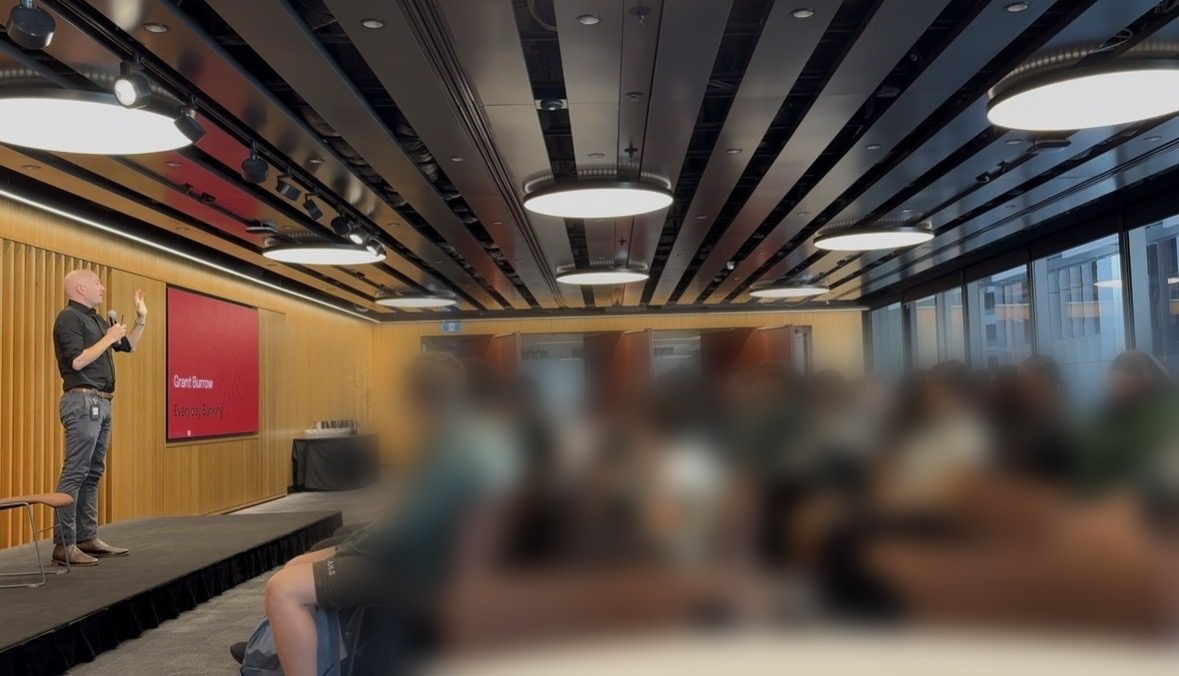
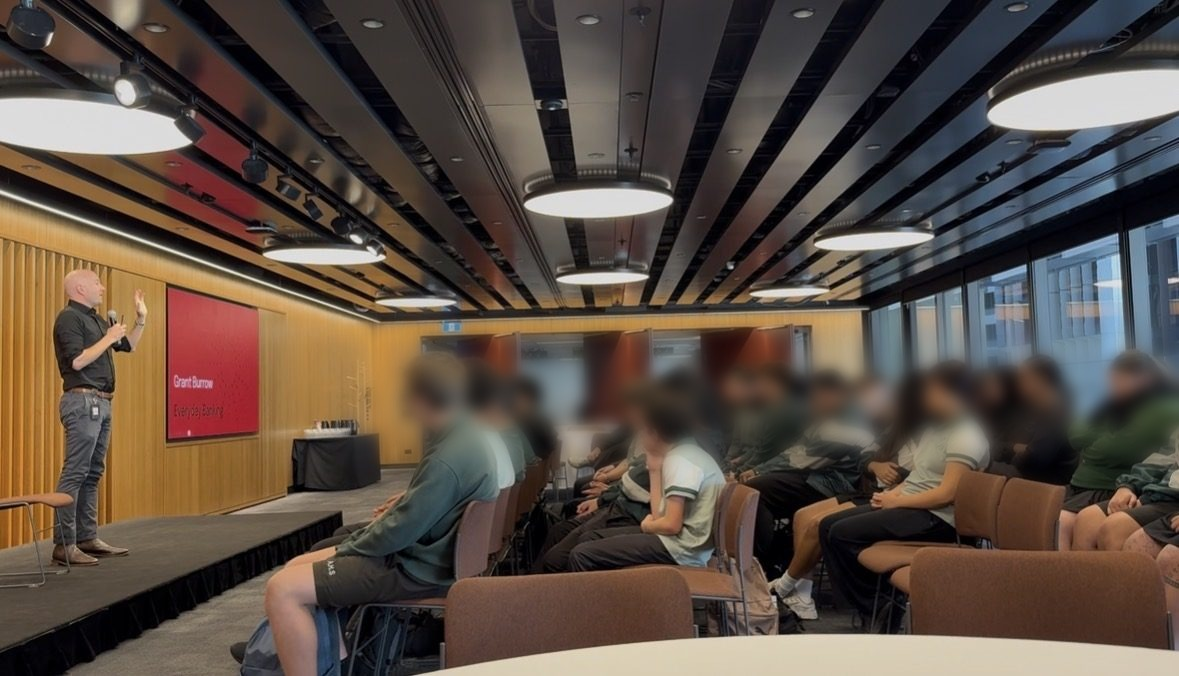
Narrow Airds collage blur to just the face band, subtle radius
The previous full-crowd blur overcorrected (bodies, uniforms, and
chairs all softened along with faces). Replaced with a light Gaussian
confined to a feathered band across head height only, leaving
everything else in the room sharp. Post text is confirmed unchanged
after review. Folds the correction into article-to-linkedin's blur
rule so future drafts get the band-and-subtlety balance right the
first time.

Claude-Session: https://claude.ai/code/session_01Q6sAq7k5KJdTMe4pCpFx3P

diff --git a/.claude/skills/article-to-linkedin/SKILL.md b/.claude/skills/article-to-linkedin/SKILL.md
@@ -45,7 +45,7 @@ back any feedback the owner gives on a specific post per that skill's own
 2. **Find the real reason for sharing, and frame it as a service to the reader, not a report on your own work.** "Thought this was interesting" or "check out my latest piece" is exactly the generic framing the brief rejected, but so is a post that reads as "here's some research I did", even a specific, real reason for writing it. His round-1 correction, verbatim: less about the research itself and more "here is some of the interesting behavioural science behind it and how you might harness it in practical ways yourself". Open on a real, concrete, dated personal moment (he received the actual magazine two days ago, he found the actual object in his letterbox), then pivot straight to what the reader can do with the mechanism, not to a description of the piece he wrote. Don't restate the same idea across the first two paragraphs, if the opening moment and the pivot line are both explaining "why does this physical thing still exist", that's one idea said twice, cut one.
 3. **Draft the post applying `my-writing-style`.** Match its "doc / LinkedIn / external" surface section for structure (short paragraphs, a blank line between each, an emoji-bulleted list for a small sample of findings, no greeting), but don't force-fit a habit the profile documents for a different post type when it doesn't actually apply. His sampled posts are all live-event recaps with a named collaborator to thank early; an article share has no event and no collaborator, so that specific device gets dropped rather than manufactured, not silently, note it as a real gap between the sampled voice and this new post type when presenting the draft. Keep the length well under his usual 150-350 words when the post is pointing at a full piece rather than being the whole content itself, aim for roughly 120-220 words so the link still has a reason to be clicked.
 4. **The findings list is 2 main drivers, elaborated, not 3+ raw stats.** A first pass at this skill listed every citable finding in the article as its own one-line emoji bullet, mimicking the shape of his real "small sample" lists without their substance. His correction: pick the top 2 actual drivers of the argument, give each a little real elaboration in plain language, and use the specific numbers and citations as a parenthetical backing detail at the end of that bullet, not as the bullet's entire content. A third genuinely supporting finding can move into the surrounding prose instead of getting its own bullet, it doesn't need equal billing just because the article cites it.
-5. **Build the collage from the article's own real images, nothing stock.** Composite the 2-4 images that most concretely show what the post is about (not every image in the piece, the ones a reader needs to see to get the point) onto one flat image sized for a LinkedIn upload (roughly 1400x1000 or 1200x1200 works well for two portrait-oriented photos side by side). Keep the composition restrained: the site's own paper background token (`#FBF9F4`), a thin ink-toned border per photo, generous margins, no added text, no drop shadows or gradients competing with the real photos. Check every source image against the site's standing no-watermark policy before it goes anywhere near the collage, the same check any image gets before `mockup/images/`. If the article's images are all portrait-oriented, don't force a square or landscape canvas that crops them, size the canvas around what the real images actually are. **Blur identifiable bystanders before anyone but him is in frame.** A field-session photo showing a crowd (students, workshop attendees, anyone who didn't agree to appear in a LinkedIn post specifically) needs their faces softened before the collage ships, even though the same unaltered photo is fine on the site's own field-session page, a talk recap on `sessions.html` and a public LinkedIn post are different exposure levels. His actual catch, on the Airds High collage: "Gentle blur / out of focus for th students' faces." The fix that held up: a single feathered Gaussian blur over the whole crowd region (not per-face masking, which is fragile and easy to miss one), leaving him and the stage/screen sharp, so it reads as an intentional shallow-depth-of-field photo rather than a patchy redaction. Never blur him, and never blur an adult professional colleague who's a named, willing participant in the post, this is about people who didn't choose to be identifiable to a LinkedIn audience.
+5. **Build the collage from the article's own real images, nothing stock.** Composite the 2-4 images that most concretely show what the post is about (not every image in the piece, the ones a reader needs to see to get the point) onto one flat image sized for a LinkedIn upload (roughly 1400x1000 or 1200x1200 works well for two portrait-oriented photos side by side). Keep the composition restrained: the site's own paper background token (`#FBF9F4`), a thin ink-toned border per photo, generous margins, no added text, no drop shadows or gradients competing with the real photos. Check every source image against the site's standing no-watermark policy before it goes anywhere near the collage, the same check any image gets before `mockup/images/`. If the article's images are all portrait-oriented, don't force a square or landscape canvas that crops them, size the canvas around what the real images actually are. **Blur identifiable bystanders before anyone but him is in frame, subtly and only their faces.** A field-session photo showing a crowd (students, workshop attendees, anyone who didn't agree to appear in a LinkedIn post specifically) needs their faces softened before the collage ships, even though the same unaltered photo is fine on the site's own field-session page, a talk recap on `sessions.html` and a public LinkedIn post are different exposure levels. His actual catch, on the Airds High collage: "Gentle blur / out of focus for th students' faces." The first fix overcorrected: a single feathered blur over the *whole* crowd region (bodies, uniforms, chairs, all of it), which drew his second catch, "Just blur faces subtly not everyone else." What held up on the third pass: a light-radius Gaussian (roughly half the strength of the first attempt) confined to a horizontal band across just head height (a feathered-edge rectangle spanning the row of faces, not the torsos or chairs below it), leaving uniforms, hands, and the room fully sharp. Two things to get right at once, not sequentially: soften only the strip where faces actually are, and keep that softening light enough to read as a shallow-depth-of-field photo rather than an obvious redaction box. Never blur him, and never blur an adult professional colleague who's a named, willing participant in the post, this is about people who didn't choose to be identifiable to a LinkedIn audience.
 6. **Hashtags: use his real recurring cluster, don't force a 2-4 cap.** The original brief said "2-4 hashtags that aren't contrived", read the first time as a hard ceiling, which produced a thinner set than he actually wanted. His round-1 correction added four more from his own documented recurring set (`#behaviouralscience #customers #experimentation #outcomes`) on top of the three already there, landing at 7, which matches `my-writing-style`'s own documented range for him (5-7 tags per post) exactly. Default to his real cluster at its natural size, then add only the one or two genuinely article-specific tags on top (a real, standard industry term like `#customerloyalty` or `#directmail`, not a compound invented for the occasion like `#printvsdigital`). "Not contrived" is the actual bar, not a specific number.
 7. **Direct link, plain, no tracking parameters added, introduced as a personal invitation, not a citation label.** The article's canonical URL (`https://www.grantburrow.com/<slug>.html`), on its own line near the end. His round-3 correction: "Full piece, with all the citations:" reads like a formal source label; he changed it to "I did a fuller write up with visuals here for those interested:", a low-key, first-person hand-off rather than an academic pointer. Default to that register for the link line going forward.
 8. **Close on a plain, specific thought, never a tidy summary aphorism.** A first pass closed with "Digital is still cheaper to produce and send. Touch, memory, and price all point the other way", a rule-of-three wrap-up sentence that reads exactly like generated copy dressing up a plain point as a considered one. His catch, verbatim: "This first line reads like classic ai. Sounds like me as a human." The fix wasn't softer wording, it was structural: drop the neat list-of-three-things-that-point-the-other-way shape entirely and end on something a specific person would actually say out loud, a real question posed to the reader, a genuine next step, a plain observation with one real idea in it, not three packaged as a flourish.
